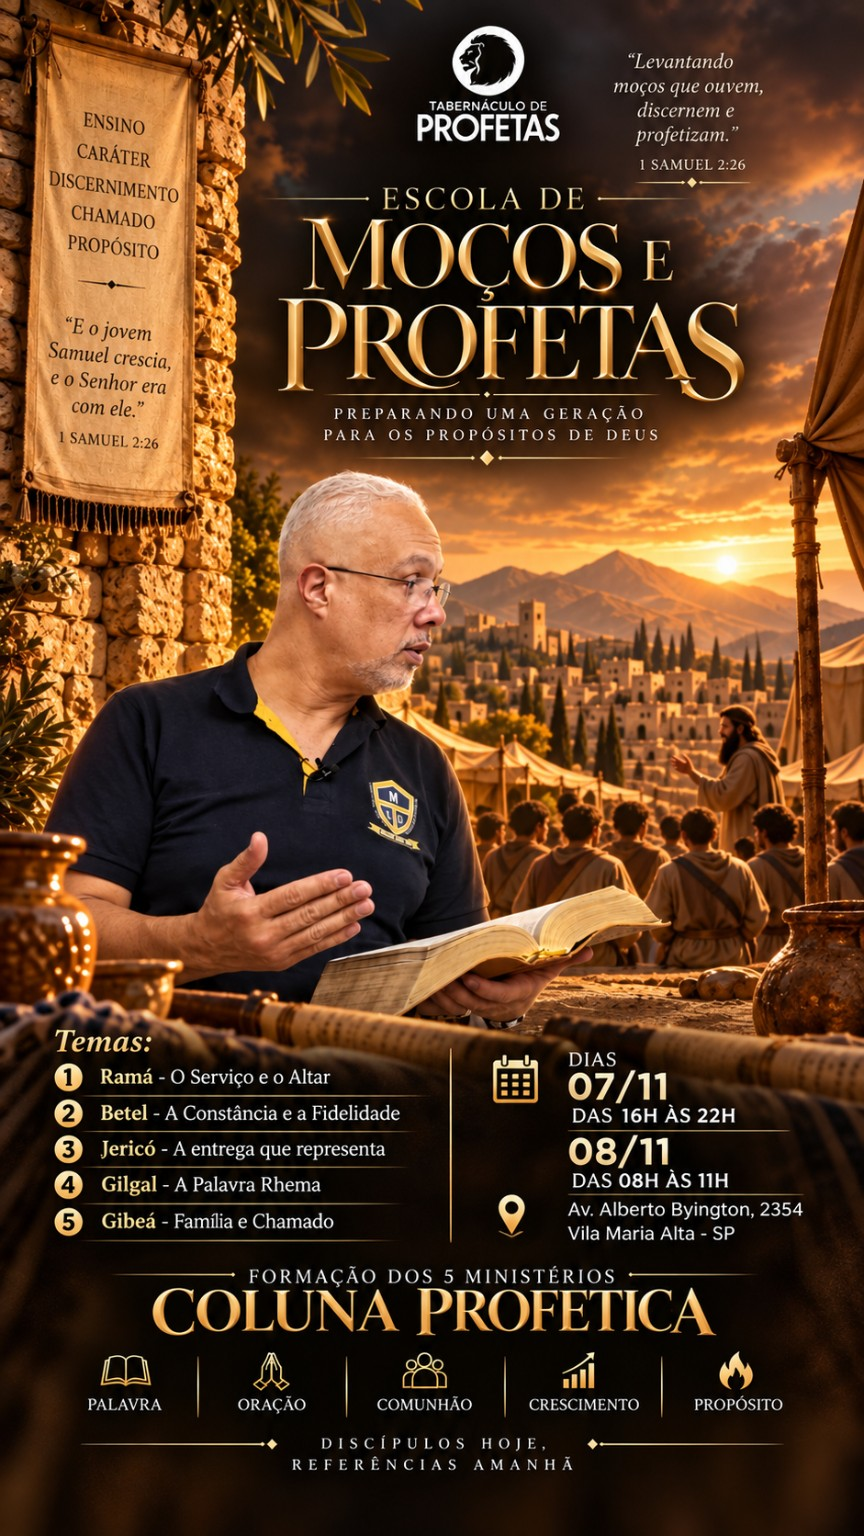
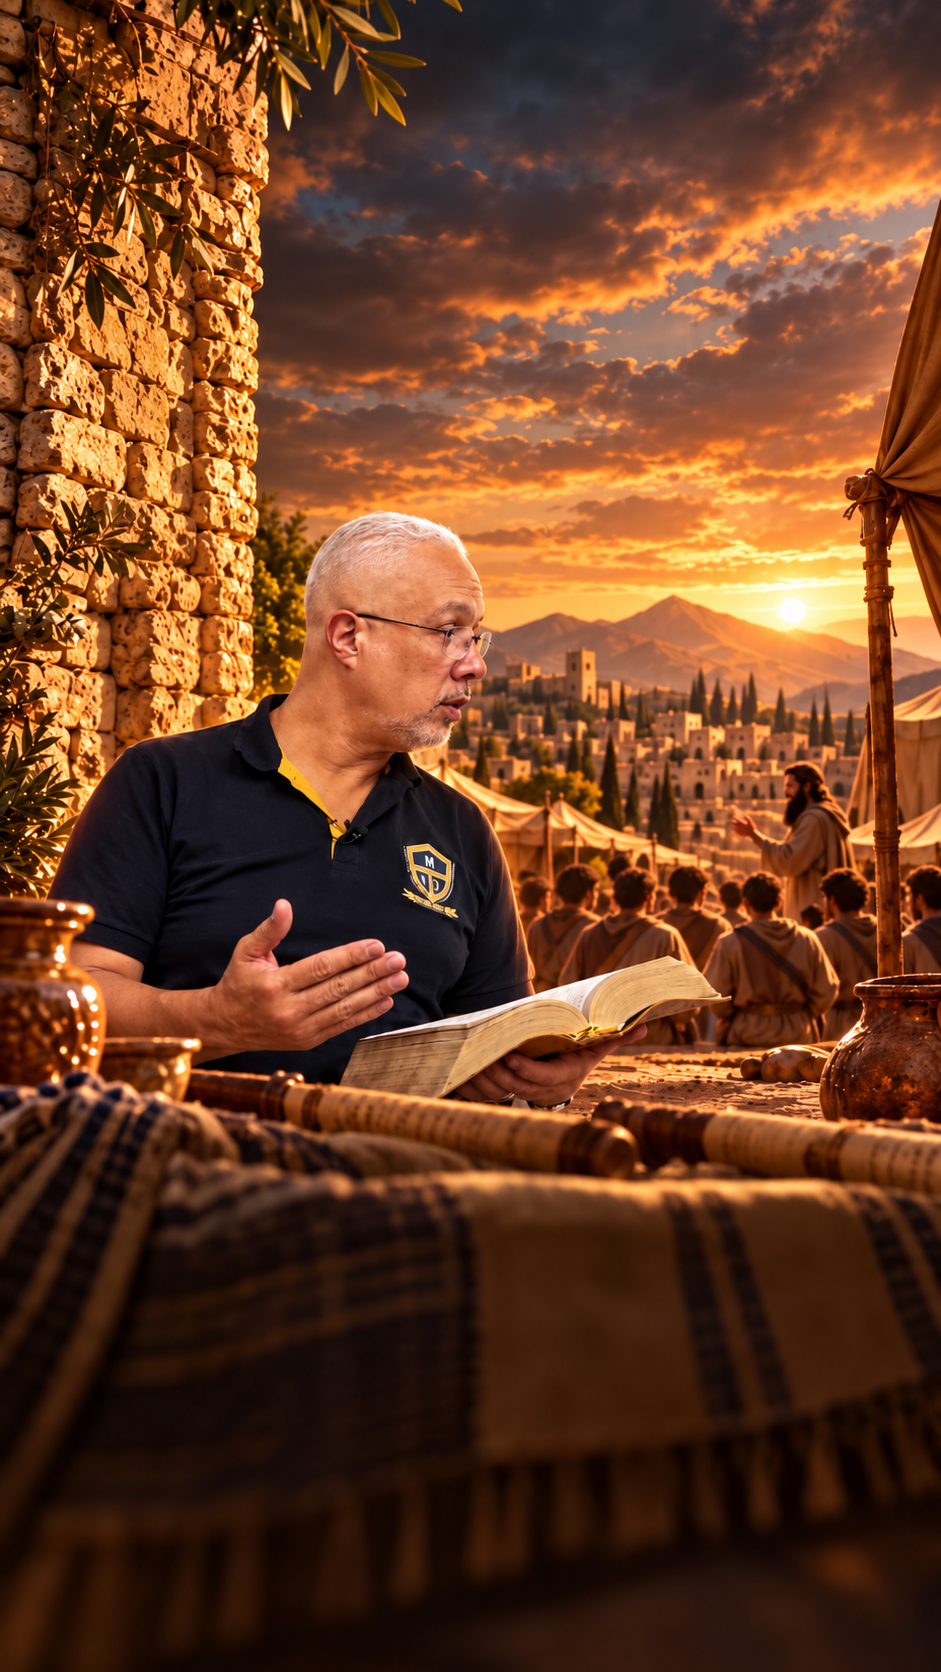
Atualiza imagem de fundo do evento e ajusta enquadramento/contraste no mobile

diff --git a/styles.css b/styles.css
@@ -435,6 +435,17 @@ footer {
 .footer__content span, .footer__content small { color:var(--muted); }
 
 @media (max-width: 980px) {
+  .hero::before {
+    background:
+      linear-gradient(180deg, rgba(7,5,3,.94) 0%, rgba(7,5,3,.82) 40%, rgba(7,5,3,.94) 100%),
+      url("assets/folder-evento.png") center top / cover no-repeat;
+    background-position: center top;
+    background-size: cover;
+    transform: scale(1.03);
+  }
+  .hero__overlay {
+    background: linear-gradient(180deg, rgba(0,0,0,.35) 0%, rgba(7,5,3,.82) 100%);
+  }
   .hero__grid { grid-template-columns: 1fr; }
   .hero__poster { max-width:520px; margin: 0 auto; }
   .themes-grid { grid-template-columns: repeat(2,1fr); }
@@ -447,6 +458,16 @@ footer {
 }
 
 @media (max-width: 640px) {
+  .hero::before {
+    background:
+      linear-gradient(180deg, rgba(7,5,3,.96) 0%, rgba(7,5,3,.86) 35%, rgba(7,5,3,.96) 100%),
+      url("assets/folder-evento.png") center 10% / cover no-repeat;
+    background-position: center 10%;
+    background-size: cover;
+  }
+  .hero__overlay {
+    background: linear-gradient(180deg, rgba(7,5,3,.45) 0%, rgba(7,5,3,.88) 100%);
+  }
   .container { width:min(100% - 26px, 1160px); }
   .hero { min-height:auto; }
   .hero__grid { padding: 56px 0; gap:36px; }
